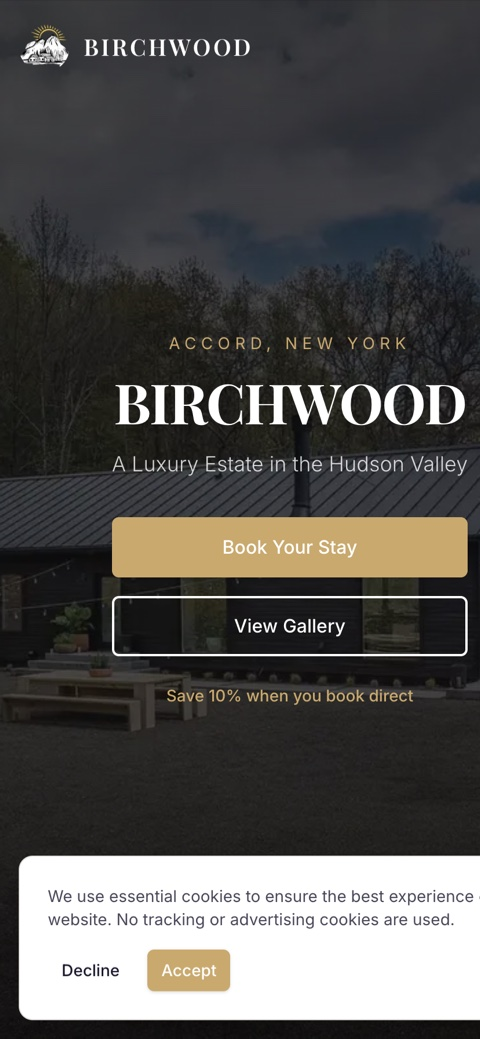
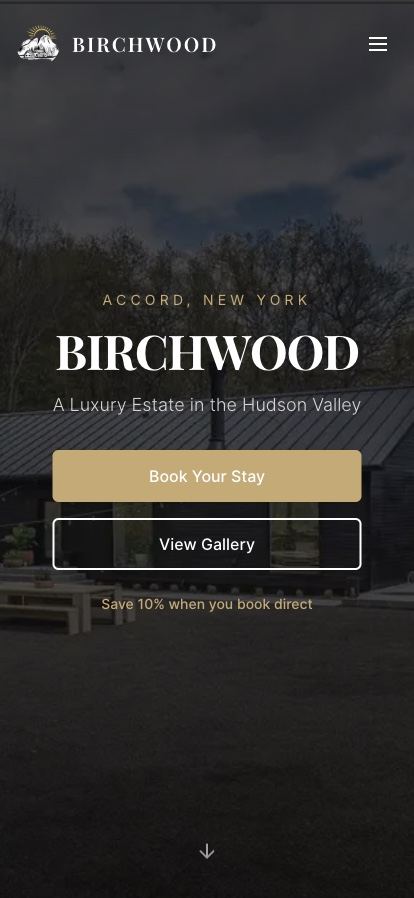
Correlate code demo, refresh mobile shots, sync headline highlight
- Services "Custom Built Websites" demo: the live preview now renders
  what the code types — a gradient "Grow." headline and a styled "Start"
  button — instead of generic placeholder bars.
- Replace the Birchwood/Laundry Day mobile case-study screenshots with
  cleaner full-screen captures.
- Hero headline: words now decode in white, then a single highlight bar
  sweeps across and paints "Dream" and "Build" blue together as it passes
  — fixing the ~1s gap where Build colorized long after the sweep.

diff --git a/src/components/HeroHeadline.jsx b/src/components/HeroHeadline.jsx
@@ -7,32 +7,26 @@ import { useIntroDone } from '../hooks/useIntroHandoff'
 const GLYPHS = '01<>/{}[]=+*#$%01ABCDEF01·:•01'.split('')
 const rand = () => GLYPHS[Math.floor(Math.random() * GLYPHS.length)] || '0'
 
-// Renders a single highlighted word as a cinematic decode:
-//   • characters shimmer through code-glyphs, then lock left-to-right
-//   • each lock fires a scale-pop + bloom flash (CSS .is-locked)
-//   • once the word is fully locked, a white overlay wipes away L→R to reveal
-//     the gradient underneath, which flashes bright as it lands
-// The real word is shown statically until the intro hands off (start), so it is
-// never missing and degrades gracefully under reduced motion.
-function DecodeWord({ text, start, gradientClass, delay = 0 }) {
+// Renders a single highlighted word. The decode (shimmer → per-character lock)
+// resolves the word in WHITE; it only takes on its gradient when `colorize`
+// flips true — which the parent times to the moment the highlight sweep passes
+// over it, so the blue lands exactly under the light bar.
+function DecodeWord({ text, start, gradientClass, delay = 0, colorize }) {
   const reduce = useReducedMotion()
   const chars = text.split('')
-  // `glyphs` holds the current shimmer character per index; `locked` is how many
-  // leading characters have settled; `resolved` flips when the word is complete.
+  // `glyphs` = current shimmer char per index; `locked` = how many leading
+  // characters have settled into their real (white) letter.
   const [glyphs, setGlyphs] = useState(chars)
   const [locked, setLocked] = useState(reduce || !start ? chars.length : 0)
-  const [resolved, setResolved] = useState(reduce || !start)
   const rafRef = useRef(null)
 
   useEffect(() => {
     if (reduce || !start) {
       setGlyphs(chars)
       setLocked(text.length)
-      setResolved(true)
       return
     }
 
-    setResolved(false)
     setLocked(0)
 
     const per = 150 // ms between characters locking in
@@ -47,27 +41,21 @@ function DecodeWord({ text, start, gradientClass, delay = 0 }) {
 
     const tick = (now) => {
       const t = now - startT
-
-      // Refresh shimmer glyphs only on the flicker cadence.
       if (now - lastFlip >= flicker) {
         for (let i = 0; i < chars.length; i++) pool[i] = rand()
         setGlyphs([...pool])
         lastFlip = now
       }
-
-      // Count how many leading characters have settled.
       const lc = settleAt.reduce((n, s) => (t >= s ? n + 1 : n), 0)
       if (lc !== prevLocked) {
         setLocked(lc)
         prevLocked = lc
       }
-
       if (t < total) {
         rafRef.current = requestAnimationFrame(tick)
       } else {
         setGlyphs(chars)
         setLocked(text.length)
-        setResolved(true)
       }
     }
     rafRef.current = requestAnimationFrame(tick)
@@ -76,7 +64,6 @@ function DecodeWord({ text, start, gradientClass, delay = 0 }) {
     const safety = setTimeout(() => {
       setGlyphs(chars)
       setLocked(text.length)
-      setResolved(true)
     }, total + 700)
 
     return () => {
@@ -86,11 +73,23 @@ function DecodeWord({ text, start, gradientClass, delay = 0 }) {
     // eslint-disable-next-line react-hooks/exhaustive-deps
   }, [start, text, delay, reduce])
 
-  // Three stacked layers share one grid cell (no layout shift):
+  // Before the intro hands off (or under reduced motion), just show the final
+  // gradient word — never missing, no animation.
+  if (reduce || !start) {
+    return (
+      <span className="relative inline-grid align-baseline">
+        <span className={`whitespace-pre ${gradientClass}`} aria-hidden>
+          {text}
+        </span>
+      </span>
+    )
+  }
+
+  // Active path: three stacked layers in one grid cell (no layout shift):
   //   1. invisible spacer — reserves the final width
-  //   2. gradient layer — the payoff, hidden until the word resolves
-  //   3. white/shimmer layer on top — carries the per-character decode, then
-  //      wipes itself away to unveil the gradient.
+  //   2. gradient payoff — hidden until the highlight colorizes the word
+  //   3. white decode layer on top — carries the shimmer/lock, then wipes away
+  //      left→right (in the highlight's wake) to unveil the gradient.
   return (
     <span className="relative inline-grid align-baseline">
       <span className="invisible col-start-1 row-start-1" aria-hidden>
@@ -99,9 +98,9 @@ function DecodeWord({ text, start, gradientClass, delay = 0 }) {
 
       <span
         className={`col-start-1 row-start-1 whitespace-pre ${gradientClass} ${
-          resolved ? 'hh-word-flash' : ''
+          colorize ? 'hh-word-flash' : ''
         }`}
-        style={{ opacity: resolved ? 1 : 0 }}
+        style={{ opacity: colorize ? 1 : 0 }}
         aria-hidden
       >
         {text}
@@ -109,7 +108,7 @@ function DecodeWord({ text, start, gradientClass, delay = 0 }) {
 
       <span
         className={`col-start-1 row-start-1 whitespace-pre text-white ${
-          resolved ? 'hh-wipe' : ''
+          colorize ? 'hh-wipe' : ''
         }`}
         aria-hidden
       >
@@ -120,7 +119,7 @@ function DecodeWord({ text, start, gradientClass, delay = 0 }) {
               key={i}
               className={`hh-char ${isLocked ? 'is-locked' : 'is-scramble'}`}
             >
-              {ch === ' ' ? ' ' : isLocked ? ch : glyphs[i]}
+              {ch === ' ' ? ' ' : isLocked ? ch : glyphs[i]}
             </span>
           )
         })}
@@ -129,24 +128,51 @@ function DecodeWord({ text, start, gradientClass, delay = 0 }) {
   )
 }
 
+// Choreography (ms from the intro handoff):
+//   0 ............. words shimmer + lock into place, in WHITE
+//   ~SWEEP_AT ..... a single highlight bar starts sweeping left→right
+//   ~COLOR_AT ..... bar reaches the highlighted words → they turn blue together,
+//                   each wiping its gradient in under the bar's trailing edge
+const SWEEP_AT = 1350
+const COLOR_AT = 1900
+
 export default function HeroHeadline() {
   const start = useIntroDone()
   const reduce = useReducedMotion()
+  const [sweep, setSweep] = useState(false)
+  const [colorize, setColorize] = useState(false)
+
+  useEffect(() => {
+    if (!start) return
+    if (reduce) {
+      setColorize(true)
+      return
+    }
+    setSweep(false)
+    setColorize(false)
+    const t1 = setTimeout(() => setSweep(true), SWEEP_AT)
+    const t2 = setTimeout(() => setColorize(true), COLOR_AT)
+    return () => {
+      clearTimeout(t1)
+      clearTimeout(t2)
+    }
+  }, [start, reduce])
 
   return (
     <h1
       className="relative text-5xl md:text-7xl lg:text-8xl font-black mb-6 leading-[1.05] tracking-tight"
       aria-label="You Dream It, We Build It."
     >
-      {/* Scanline sweep — runs once across the whole headline as it decodes. */}
-      {start && !reduce && <span className="hh-scanline" aria-hidden />}
+      {/* Single highlight bar — sweeps across once and paints the words blue. */}
+      {sweep && !reduce && <span className="hh-scanline" aria-hidden />}
 
       <span aria-hidden>
         You{' '}
         <DecodeWord
           text="Dream"
           start={start}
-          delay={300}
+          delay={250}
+          colorize={colorize}
           gradientClass="bg-gradient-to-r from-primary via-blue-400 to-accent bg-clip-text text-transparent"
         />{' '}
         It,
@@ -155,7 +181,8 @@ export default function HeroHeadline() {
         <DecodeWord
           text="Build"
           start={start}
-          delay={1700}
+          delay={600}
+          colorize={colorize}
           gradientClass="bg-gradient-to-r from-accent via-blue-400 to-primary bg-clip-text text-transparent"
         />{' '}
         It.

diff --git a/src/components/Services.jsx b/src/components/Services.jsx
@@ -48,11 +48,30 @@ function CodeDemo() {
         ))}
         <span className="svc-caret inline-block w-1.5 h-3 bg-primary align-middle" />
       </pre>
-      <div className="rounded-lg bg-gradient-to-br from-dark-card to-black border border-white/10 p-2.5 flex flex-col gap-2 justify-center">
-        <div className="svc-render h-2.5 w-3/4 rounded bg-primary/70" style={{ animationDelay: '0.6s' }} />
-        <div className="svc-render h-1.5 w-full rounded bg-white/15" style={{ animationDelay: '1.1s' }} />
-        <div className="svc-render h-1.5 w-5/6 rounded bg-white/15" style={{ animationDelay: '1.4s' }} />
-        <div className="svc-render h-5 w-1/2 rounded bg-accent mt-1" style={{ animationDelay: '1.8s' }} />
+      {/* Live preview — renders exactly what the code types: a "Grow."
+          headline and a "Start" button, each appearing as its line is typed. */}
+      <div className="relative rounded-lg bg-gradient-to-br from-dark-card to-black border border-white/10 overflow-hidden flex flex-col items-center justify-center gap-2.5">
+        {/* ambient glow + faux browser dots for a "real page" feel */}
+        <div className="pointer-events-none absolute -top-8 -right-6 w-24 h-24 rounded-full bg-accent/25 blur-2xl" />
+        <div className="absolute top-2 left-2 flex gap-1">
+          <span className="w-1.5 h-1.5 rounded-full bg-white/15" />
+          <span className="w-1.5 h-1.5 rounded-full bg-white/15" />
+          <span className="w-1.5 h-1.5 rounded-full bg-white/15" />
+        </div>
+        <div
+          className="svc-render text-2xl sm:text-3xl font-black tracking-tight bg-gradient-to-r from-primary via-blue-300 to-accent bg-clip-text text-transparent"
+          style={{ animationDelay: '0.6s' }}
+        >
+          Grow.
+        </div>
+        <button
+          type="button"
+          tabIndex={-1}
+          className="svc-render px-4 py-1.5 rounded-full text-[11px] font-bold text-white bg-gradient-to-r from-accent to-blue-600 shadow-lg shadow-accent/30 ring-1 ring-white/10"
+          style={{ animationDelay: '1.1s' }}
+        >
+          Start
+        </button>
       </div>
     </div>
   )

diff --git a/src/index.css b/src/index.css
@@ -149,30 +149,33 @@ body {
   to { clip-path: inset(-30% -30% -30% 100%); }
 }
 
-/* A bright scanline sweeps across the headline once as it decodes. */
+/* A bright highlight bar sweeps across the headline once, painting the
+   highlighted words blue as it passes over them. Mounted right after the
+   decode finishes, so it starts on mount (no delay). Its ~0.55s-to-the-words
+   crossing is what COLOR_AT in HeroHeadline.jsx is tuned to. */
 .hh-scanline {
   position: absolute;
-  top: -10%;
-  bottom: -10%;
-  width: 9%;
+  top: -12%;
+  bottom: -12%;
+  width: 11%;
   pointer-events: none;
   background: linear-gradient(
     90deg,
     transparent,
-    rgba(179, 200, 244, 0) 8%,
-    rgba(179, 200, 244, 0.65) 50%,
-    rgba(179, 200, 244, 0) 92%,
+    rgba(179, 200, 244, 0) 6%,
+    rgba(205, 217, 246, 0.9) 50%,
+    rgba(179, 200, 244, 0) 94%,
     transparent
   );
-  filter: blur(3px);
+  filter: blur(2px) brightness(1.15);
   mix-blend-mode: screen;
   opacity: 0;
-  animation: hh-scan 2.7s ease-in-out 0.15s 1 forwards;
+  animation: hh-scan 1.9s cubic-bezier(0.45, 0, 0.55, 1) 0s 1 forwards;
 }
 @keyframes hh-scan {
-  0% { left: -12%; opacity: 0; }
-  12% { opacity: 0.95; }
-  85% { opacity: 0.95; }
+  0% { left: -14%; opacity: 0; }
+  10% { opacity: 1; }
+  88% { opacity: 1; }
   100% { left: 104%; opacity: 0; }
 }
 